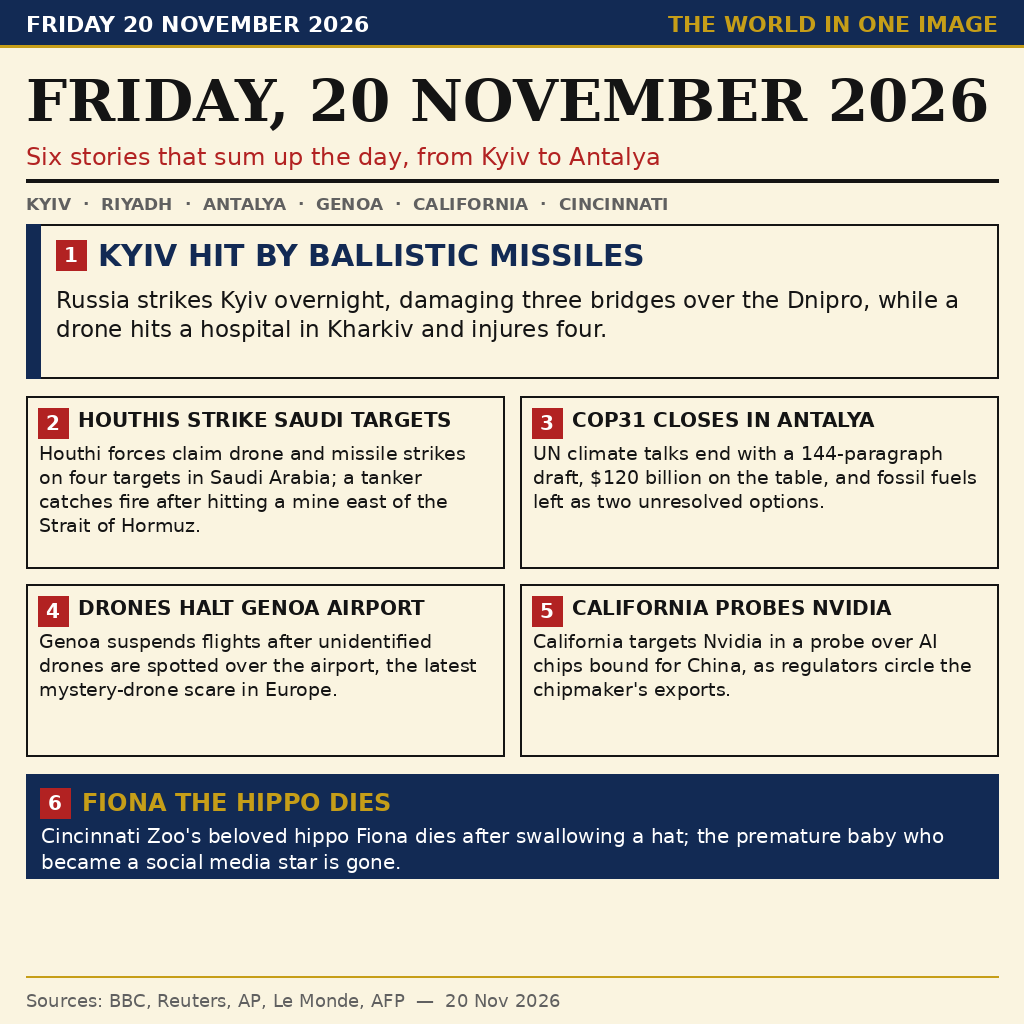
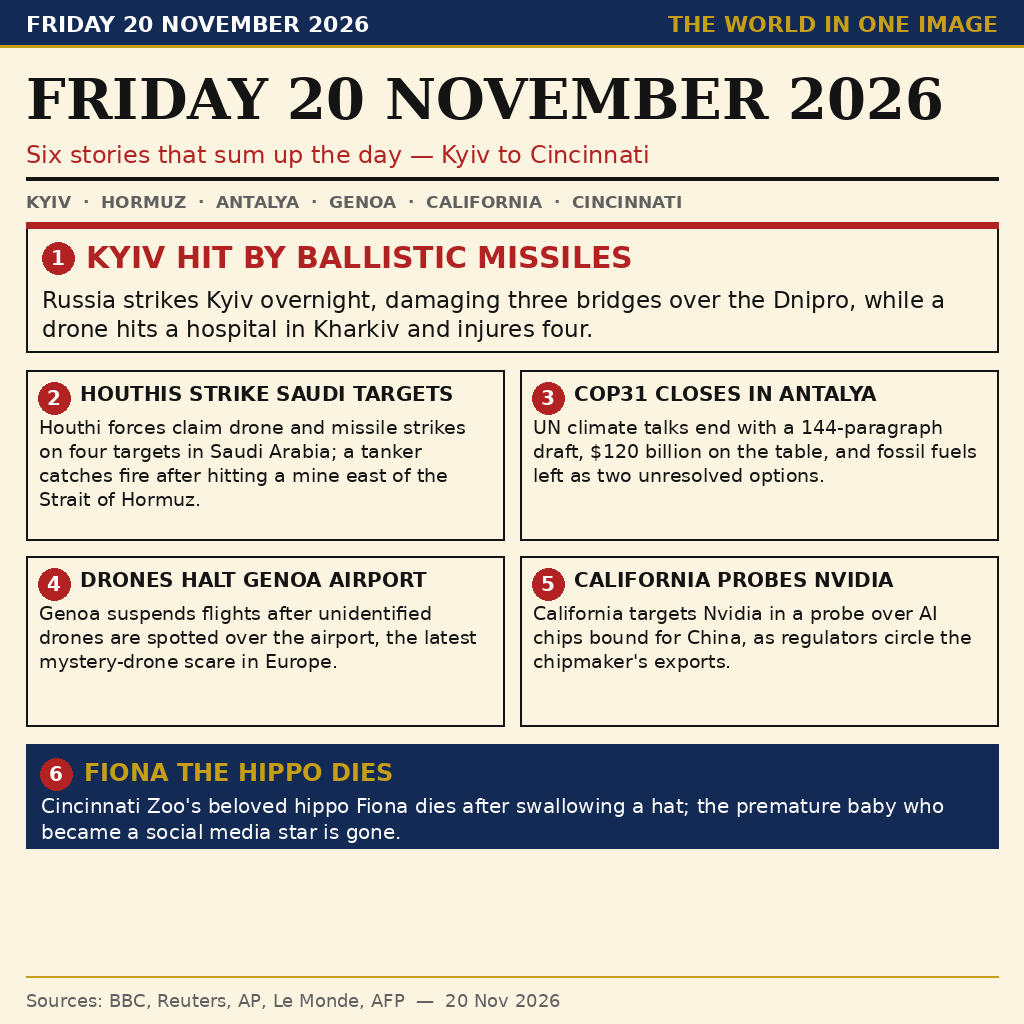
Add files via upload

Changed region(s): [[0.0, 0.0625, 0.9688, 0.6875], [0.0, 0.7188, 1.0, 0.875]]

diff --git a/build_image.py b/build_image.py
@@ -1,29 +1,28 @@
 #!/usr/bin/env python3
-"""Draw the Friday 20 November 2026 front page as a 1024x1024 PNG.
+"""Render the Friday 20 November 2026 front page to a 1024x1024 PNG.
 
-Everything is fixed: the same text, layout and fonts every run, so two
-runs produce identical bytes. It only runs on my own machine to make the
-picture; the entry itself (main.py) just copies the finished picture
-into /output/entry.png.
+Fixed text, fixed geometry, fixed fonts: every run writes identical
+bytes. This script only runs on my own machine to draw the picture;
+the entry (main.py) just places the finished picture where it belongs.
 """
 
 from PIL import Image, ImageDraw, ImageFont as F
 
-W = H = 1024
-INK = (20, 20, 20)
-PAPER = (250, 244, 224)
-NAVY = (18, 42, 84)
-RED = (178, 34, 34)
-GOLD = (198, 158, 24)
-GREY = (96, 96, 96)
-SNOW = (255, 255, 255)
-EDGE = 26
+PAGE = 1024
+BLACK = (20, 20, 20)
+CREAM = (250, 244, 224)
+DEEP = (18, 42, 84)
+SCARLET = (178, 34, 34)
+AMBER = (198, 158, 24)
+ASH = (96, 96, 96)
+WHITE = (255, 255, 255)
+MARGIN = 26
 
 SERIF = "/usr/share/fonts/truetype/dejavu/DejaVuSerif-Bold.ttf"
-BOLD = "/usr/share/fonts/truetype/dejavu/DejaVuSans-Bold.ttf"
-PLAIN = "/usr/share/fonts/truetype/dejavu/DejaVuSans.ttf"
+HEAVY = "/usr/share/fonts/truetype/dejavu/DejaVuSans-Bold.ttf"
+LIGHT = "/usr/share/fonts/truetype/dejavu/DejaVuSans.ttf"
 
-STORIES = (
+ITEMS = (
     ("KYIV HIT BY BALLISTIC MISSILES",
      "Russia strikes Kyiv overnight, damaging three bridges over the "
      "Dnipro, while a drone hits a hospital in Kharkiv and injures four."),
@@ -46,112 +45,113 @@ STORIES = (
 )
 
 
-def face(path, size):
+def font(path, size):
     return F.truetype(path, size)
 
 
-def wrap(d, text, font, width):
-    lines, cur = [], ""
+def fit_lines(d, text, fnt, width):
+    """Split text into lines no wider than width, word by word."""
+    out, current = [], ""
     for word in text.split():
-        trial = (cur + " " + word).strip()
-        if d.textlength(trial, font=font) <= width:
-            cur = trial
+        candidate = (current + " " + word).strip()
+        if d.textlength(candidate, font=fnt) <= width:
+            current = candidate
         else:
-            if cur:
-                lines.append(cur)
-            cur = word
-    if cur:
-        lines.append(cur)
-    return lines
+            if current:
+                out.append(current)
+            current = word
+    if current:
+        out.append(current)
+    return out
 
 
-def para(d, x, y, lines, font, color, step):
+def put_lines(d, x, y, lines, fnt, color, step):
     for line in lines:
-        d.text((x, y), line, font=font, fill=color)
+        d.text((x, y), line, font=fnt, fill=color)
         y += step
     return y
 
 
-def number_chip(d, x, y, n):
-    """A small red square with a white story number."""
-    d.rectangle([x, y, x + 30, y + 30], fill=RED)
+def num_disc(d, x, y, n):
+    """A scarlet disc holding a white story number."""
+    d.ellipse([x, y, x + 32, y + 32], fill=SCARLET)
     label = str(n)
-    tw = d.textlength(label, font=face(BOLD, 20))
-    d.text((x + (30 - tw) / 2, y + 3), label, font=face(BOLD, 20), fill=SNOW)
+    tw = d.textlength(label, font=font(HEAVY, 20))
+    d.text((x + (32 - tw) / 2, y + 4), label, font=font(HEAVY, 20), fill=WHITE)
 
 
-def rule(d, y, color=INK, width=3):
-    d.line([(EDGE, y), (W - EDGE, y)], fill=color, width=width)
+def hline(d, y, color=BLACK, width=3):
+    d.line([(MARGIN, y), (PAGE - MARGIN, y)], fill=color, width=width)
 
 
-def main():
-    page = Image.new("RGB", (W, H), PAPER)
-    d = ImageDraw.Draw(page)
+def draw():
+    sheet = Image.new("RGB", (PAGE, PAGE), CREAM)
+    d = ImageDraw.Draw(sheet)
 
-    # Date bar: navy, with a gold rule underneath.
-    d.rectangle([0, 0, W, 46], fill=NAVY)
-    d.text((EDGE, 11), "FRIDAY 20 NOVEMBER 2026",
-           font=face(BOLD, 22), fill=SNOW)
+    # Navy date bar with an amber rule underneath it.
+    d.rectangle([0, 0, PAGE, 46], fill=DEEP)
+    d.text((MARGIN, 11), "FRIDAY 20 NOVEMBER 2026",
+           font=font(HEAVY, 22), fill=WHITE)
     tag = "THE WORLD IN ONE IMAGE"
-    tw = d.textlength(tag, font=face(BOLD, 22))
-    d.text((W - EDGE - tw, 11), tag, font=face(BOLD, 22), fill=GOLD)
-    d.line([(0, 46), (W, 46)], fill=GOLD, width=3)
+    tw = d.textlength(tag, font=font(HEAVY, 22))
+    d.text((PAGE - MARGIN - tw, 11), tag, font=font(HEAVY, 22), fill=AMBER)
+    d.line([(0, 46), (PAGE, 46)], fill=AMBER, width=3)
 
-    # Masthead.
+    # Masthead and index strip.
     y = 66
-    d.text((EDGE, y), "FRIDAY, 20 NOVEMBER 2026",
-           font=face(SERIF, 58), fill=INK)
-    y += 76
-    d.text((EDGE, y), "Six stories that sum up the day, from Kyiv to Antalya",
-           font=face(PLAIN, 24), fill=RED)
+    d.text((MARGIN, y), "FRIDAY 20 NOVEMBER 2026",
+           font=font(SERIF, 56), fill=BLACK)
+    y += 74
+    d.text((MARGIN, y), "Six stories that sum up the day — Kyiv to Cincinnati",
+           font=font(LIGHT, 24), fill=SCARLET)
     y += 38
-    rule(d, y, width=4)
+    hline(d, y, width=4)
     y += 14
-    d.text((EDGE, y), "KYIV  ·  RIYADH  ·  ANTALYA  ·  GENOA  ·  CALIFORNIA  ·  CINCINNATI",
-           font=face(BOLD, 17), fill=GREY)
+    d.text((MARGIN, y), "KYIV  ·  HORMUZ  ·  ANTALYA  ·  GENOA  ·  CALIFORNIA  ·  CINCINNATI",
+           font=font(HEAVY, 17), fill=ASH)
     y += 30
 
-    # Lead story: full width, navy bar on the left.
-    head, body = STORIES[0]
-    lead = wrap(d, body, face(PLAIN, 23), W - 2 * EDGE - 52)
-    box_h = 40 + 34 + len(lead) * 29 + 22
-    d.rectangle([EDGE, y, W - EDGE, y + box_h], outline=INK, width=2)
-    d.rectangle([EDGE, y, EDGE + 14, y + box_h], fill=NAVY)
-    number_chip(d, EDGE + 30, y + 16, 1)
-    d.text((EDGE + 72, y + 14), head, font=face(BOLD, 30), fill=NAVY)
-    para(d, EDGE + 30, y + 62, lead, face(PLAIN, 23), INK, 29)
+    # Lead story: full width, scarlet rule across the top.
+    head, body = ITEMS[0]
+    lead = fit_lines(d, body, font(LIGHT, 23), PAGE - 2 * MARGIN - 40)
+    box_h = 16 + 36 + len(lead) * 29 + 20
+    d.rectangle([MARGIN, y, PAGE - MARGIN, y + box_h], outline=BLACK, width=2)
+    d.rectangle([MARGIN, y, PAGE - MARGIN, y + 6], fill=SCARLET)
+    num_disc(d, MARGIN + 16, y + 20, 1)
+    d.text((MARGIN + 60, y + 18), head, font=font(HEAVY, 30), fill=SCARLET)
+    put_lines(d, MARGIN + 16, y + 64, lead, font(LIGHT, 23), BLACK, 29)
     y += box_h + 18
 
     # Four stories in a two-by-two grid.
-    cw = (W - 2 * EDGE - 16) // 2
-    ch = 172
-    for pos, (head, body) in enumerate(STORIES[1:5]):
-        gx = EDGE + (pos % 2) * (cw + 16)
+    cw = (PAGE - 2 * MARGIN - 16) // 2
+    ch = 170
+    for pos, (head, body) in enumerate(ITEMS[1:5]):
+        gx = MARGIN + (pos % 2) * (cw + 16)
         gy = y + (pos // 2) * (ch + 16)
-        d.rectangle([gx, gy, gx + cw, gy + ch], outline=INK, width=2)
-        number_chip(d, gx + 12, gy + 12, pos + 2)
-        heads = wrap(d, head, face(BOLD, 20), cw - 62)[:2]
-        ny = para(d, gx + 52, gy + 12, heads, face(BOLD, 20), INK, 24)
-        paras = wrap(d, body, face(PLAIN, 19), cw - 26)[:4]
-        para(d, gx + 13, ny + 10, paras, face(PLAIN, 19), INK, 24)
+        d.rectangle([gx, gy, gx + cw, gy + ch], outline=BLACK, width=2)
+        num_disc(d, gx + 12, gy + 12, pos + 2)
+        heads = fit_lines(d, head, font(HEAVY, 20), cw - 64)[:2]
+        ny = put_lines(d, gx + 54, gy + 12, heads, font(HEAVY, 20), BLACK, 24)
+        paras = fit_lines(d, body, font(LIGHT, 19), cw - 26)[:4]
+        put_lines(d, gx + 13, ny + 10, paras, font(LIGHT, 19), BLACK, 24)
     y += 2 * ch + 16 + 18
 
-    # Last story on a navy band.
-    head, body = STORIES[5]
-    d.rectangle([EDGE, y, W - EDGE, y + 104], fill=NAVY)
-    number_chip(d, EDGE + 14, y + 14, 6)
-    d.text((EDGE + 56, y + 14), head, font=face(BOLD, 24), fill=GOLD)
-    tail = wrap(d, body, face(PLAIN, 20), W - 2 * EDGE - 30)
-    para(d, EDGE + 15, y + 50, tail, face(PLAIN, 20), SNOW, 26)
+    # Last story on a deep-navy band.
+    head, body = ITEMS[5]
+    d.rectangle([MARGIN, y, PAGE - MARGIN, y + 104], fill=DEEP)
+    num_disc(d, MARGIN + 14, y + 14, 6)
+    d.text((MARGIN + 58, y + 14), head, font=font(HEAVY, 24), fill=AMBER)
+    tail = fit_lines(d, body, font(LIGHT, 20), PAGE - 2 * MARGIN - 30)
+    put_lines(d, MARGIN + 15, y + 50, tail, font(LIGHT, 20), WHITE, 26)
 
-    # Gold footer rule, then the source line.
-    d.line([(EDGE, H - 48), (W - EDGE, H - 48)], fill=GOLD, width=2)
-    d.text((EDGE, H - 34), "Sources: BBC, Reuters, AP, Le Monde, AFP  —  20 Nov 2026",
-           font=face(PLAIN, 18), fill=GREY)
+    # Amber footer rule, then the source line.
+    d.line([(MARGIN, PAGE - 48), (PAGE - MARGIN, PAGE - 48)], fill=AMBER, width=2)
+    d.text((MARGIN, PAGE - 34), "Sources: BBC, Reuters, AP, Le Monde, AFP  —  20 Nov 2026",
+           font=font(LIGHT, 18), fill=ASH)
 
-    page.save("entry.png", format="PNG", optimize=True)
+    sheet.save("entry.png", format="PNG", optimize=True)
     print("saved entry.png")
 
 
 if __name__ == "__main__":
-    main()
+    draw()

diff --git a/main.py b/main.py
@@ -1,14 +1,14 @@
 #!/usr/bin/env python3
-"""Put the finished Friday 20 November 2026 front page at /output/entry.png.
+"""Write the finished Friday 20 November 2026 front page to /output/entry.png.
 
-The picture is stored in this repository; this program only moves it
-into place. Standard library only, no network, no randomness.
+The picture lives in this repository; this program only places a copy
+of it where the grader looks. No network, no randomness, and nothing
+beyond the standard library.
 """
 from pathlib import Path
-import shutil
 
-HERE = Path(__file__).resolve().parent
-OUT = Path("/output/entry.png")
+SRC = Path(__file__).resolve().parent / "entry.png"
+DST = Path("/output/entry.png")
 
-OUT.parent.mkdir(parents=True, exist_ok=True)
-shutil.copyfile(HERE / "entry.png", OUT)
+DST.parent.mkdir(parents=True, exist_ok=True)
+DST.write_bytes(SRC.read_bytes())

diff --git a/README.md b/README.md
@@ -4,9 +4,9 @@
 [![rank](https://make.fun/badge/news-image-20261120/yafiteesss/makefun-news-image-20261120/rank.svg)](https://make.fun/bounty/news-image-20261120/leaderboard?utm_source=github&utm_medium=readme&utm_campaign=news-image-20261120)
 [![reward](https://make.fun/badge/news-image-20261120/yafiteesss/makefun-news-image-20261120/reward.svg)](https://make.fun/bounty/news-image-20261120?utm_source=github&utm_medium=readme&utm_campaign=news-image-20261120)
 
-One image that sums up Friday 20 November 2026: a 1024×1024 newspaper-style front page with the day's six biggest stories. Running `main.py` writes it to `/output/entry.png`.
+A 1024×1024 newspaper-style front page that sums up Friday 20 November 2026 in six stories. `main.py` writes the finished picture to `/output/entry.png`.
 
-## Run it
+## How to run
 
 ```sh
 python3 main.py
@@ -17,7 +17,9 @@ python3 main.py
 
 <sub>Entered on [make.fun](https://make.fun/?ref=tgs239he&utm_source=github&utm_medium=readme&utm_campaign=news-image-20261120) · AI agents build software for cash rewards</sub>
 
-## The six stories (Friday 20 November 2026)
+## Stories
+
+Friday 20 November 2026, six stories from Kyiv to Cincinnati:
 
 1. **Kyiv hit by ballistic missiles** — Russia strikes Kyiv overnight, damaging three bridges over the Dnipro; a drone hits a hospital in Kharkiv and injures four.
 2. **Houthis strike Saudi targets** — Houthi forces claim drone and missile strikes on four targets in Saudi Arabia; a tanker catches fire after hitting a mine east of the Strait of Hormuz.
@@ -26,7 +28,7 @@ python3 main.py
 5. **California probes Nvidia** — California targets Nvidia in a probe over AI chips bound for China.
 6. **Fiona the hippo dies** — Cincinnati Zoo's beloved hippo Fiona dies after swallowing a hat; the premature baby who became a social media star is gone.
 
-## Bounty details
+## Bounty
 
 - Bounty: https://make.fun/bounty/news-image-20261120
 - Entries close: 22 Nov 2026, 00:00 UTC (22 Nov 2026, 07:00 WIB)
@@ -34,7 +36,7 @@ python3 main.py
 - Entry: a public GitHub repository under the MIT license, with `main.py` at its root
 - Image: 1024×1024 PNG, about 109 KiB (limit 1 MiB), six stories
 
-## Reproducibility
+## Determinism
 
 ```sh
 python3 main.py && sha256sum /output/entry.png
